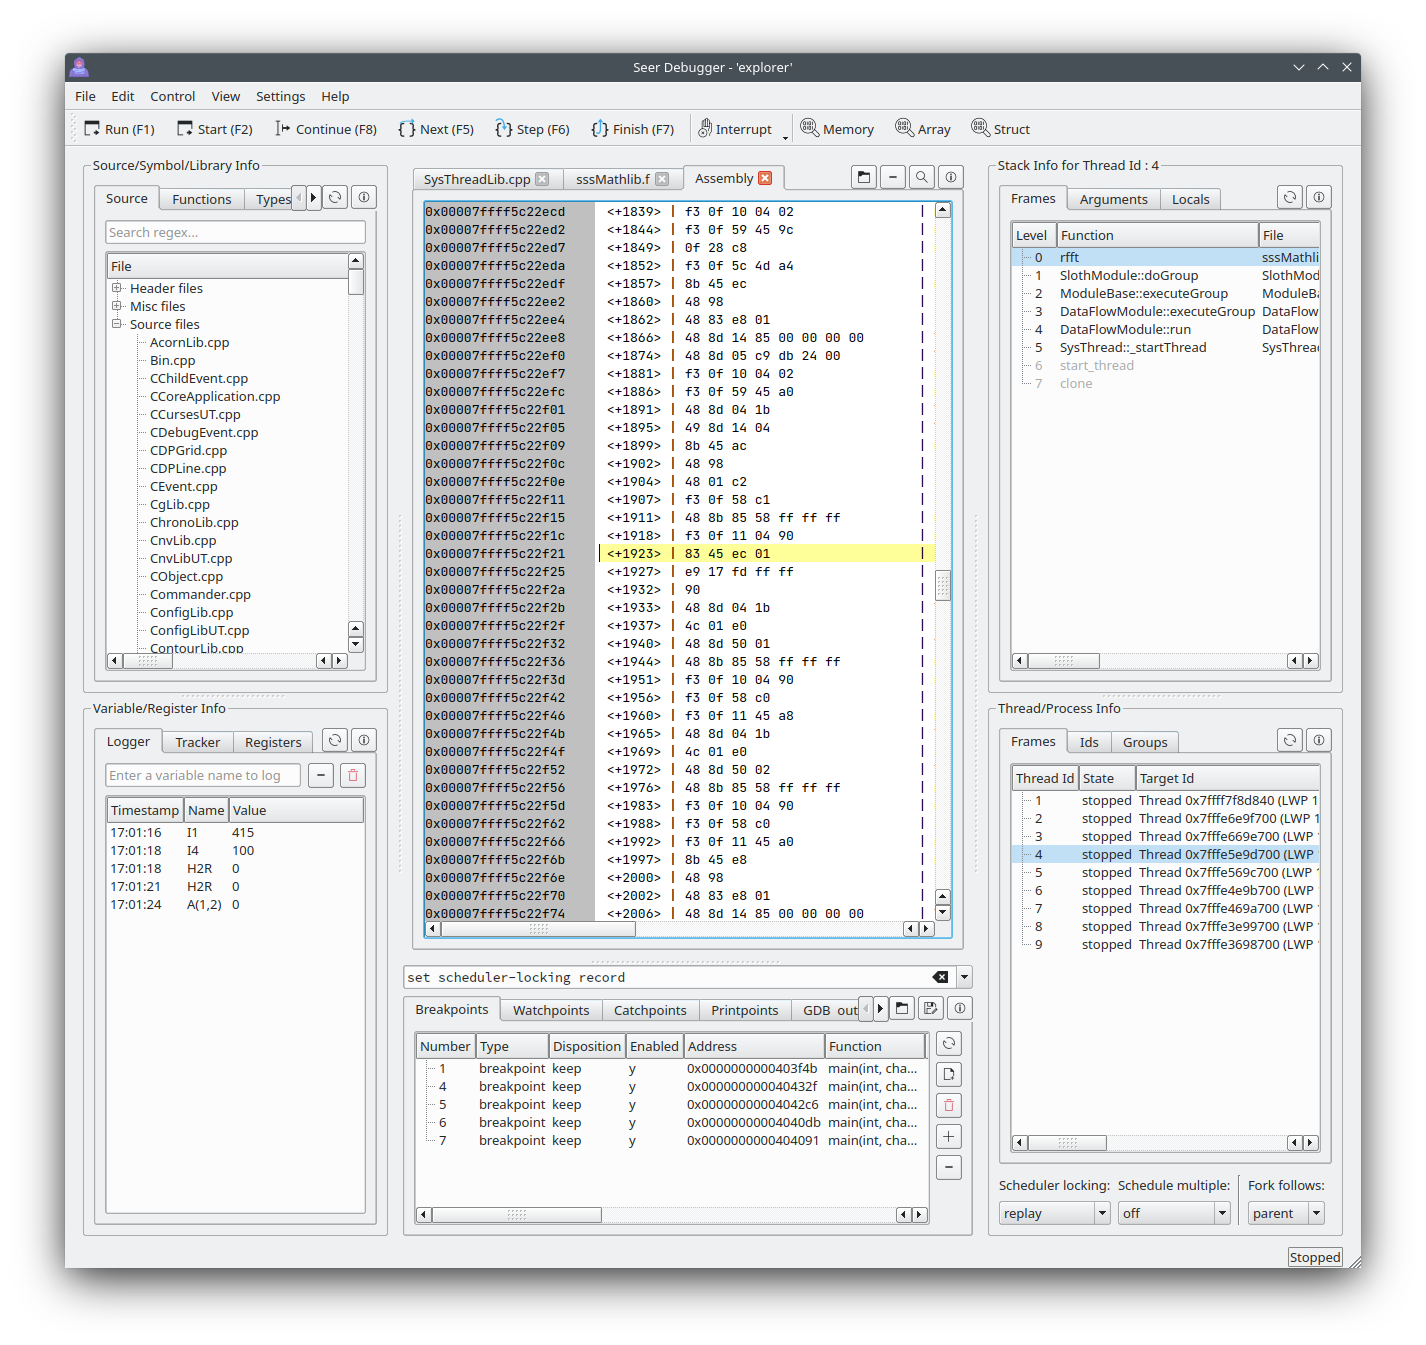
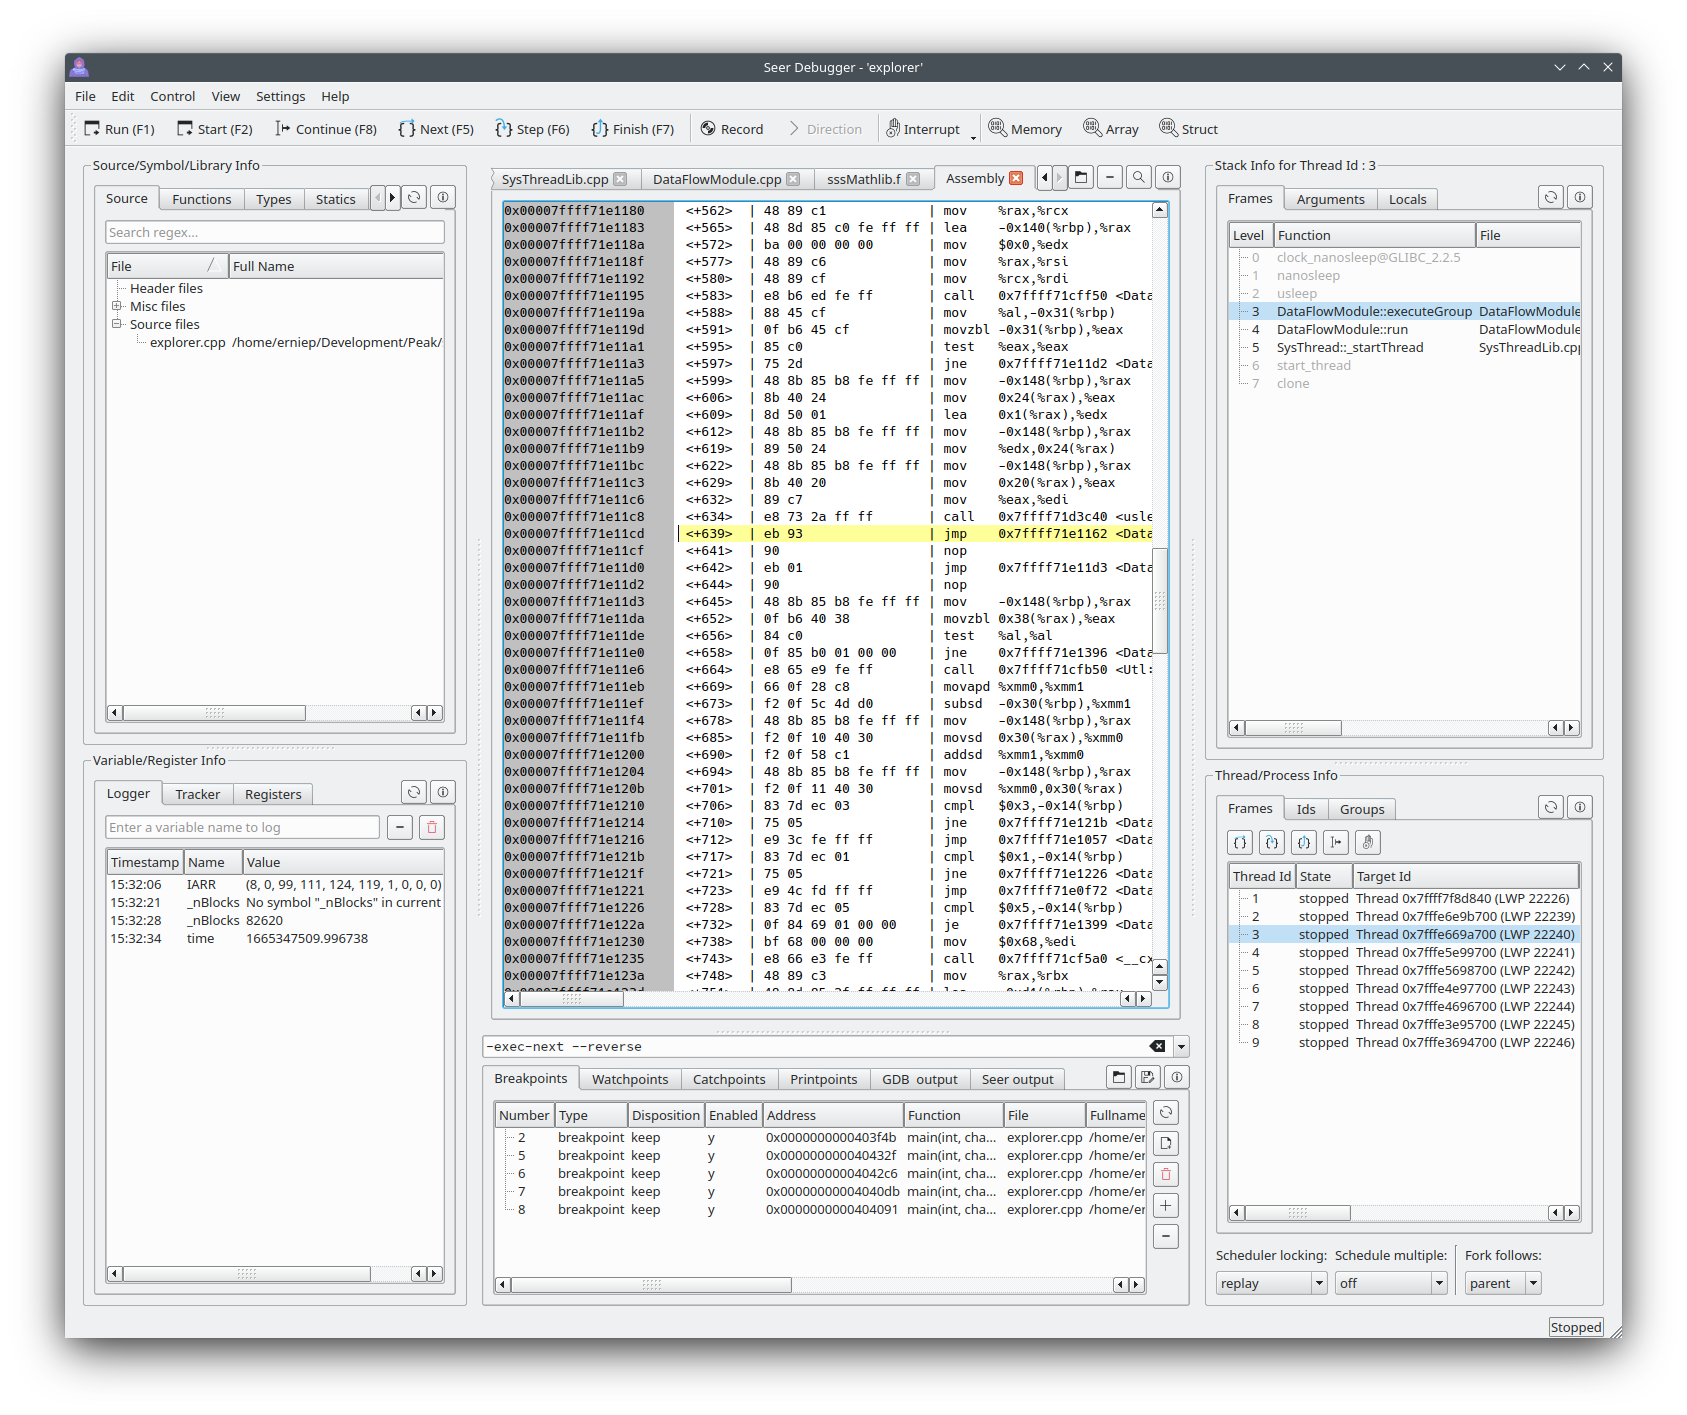
Update screenshots with Reverse Debugging examples.

Changed region(s): [[0.0309, 0.0312, 0.9874, 0.968]]

diff --git a/README.md b/README.md
@@ -98,6 +98,10 @@ The main view for Seer looks like:
     * Thread ids. A list of all threads. Double click on a thread id to change the scope (the current thread).
     * Thread frames. For each thread, list its stack frames.
 
+* Supports Gdb's Reverse Debugging mode.
+    * Turn instruction recording on or off.
+    * Set playback direction to forward or reverse.
+
 Open Dialog
 -----------
 
